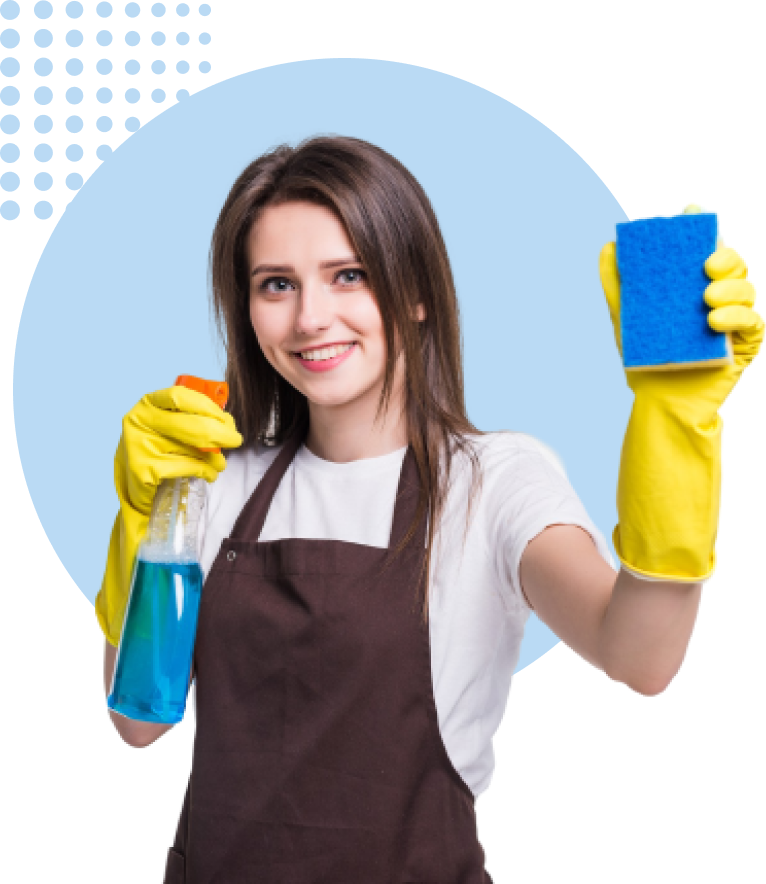
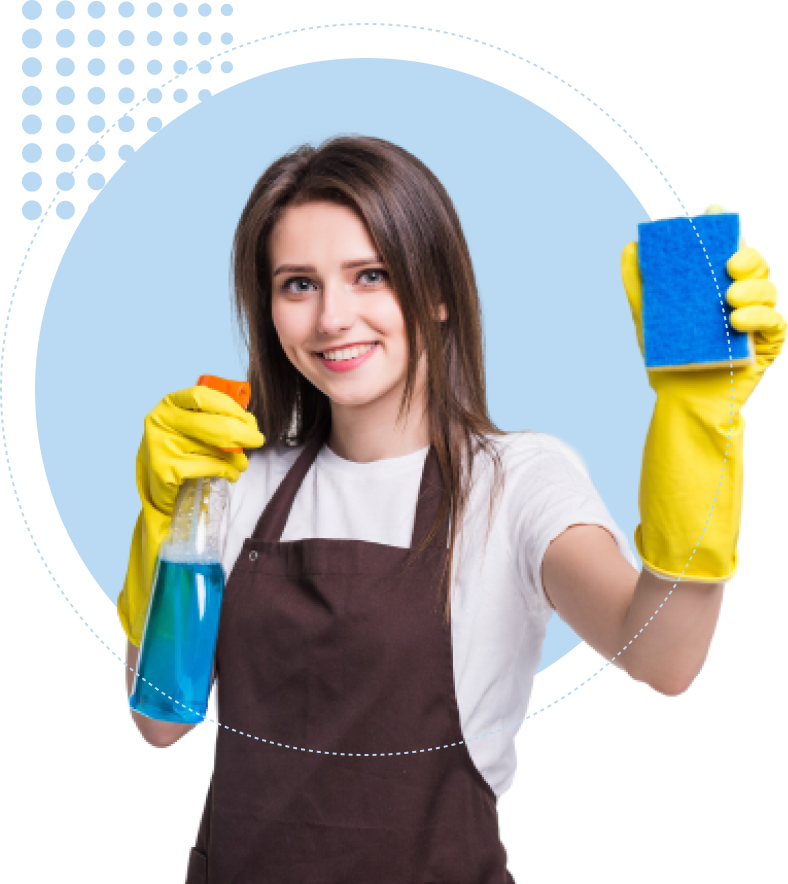
hero section finished

diff --git a/css/main.css b/css/main.css
@@ -109,8 +109,8 @@ ul,ol,li{
 
 /* ***** SITE HEADER START ***** */
 .site-header {
-  padding-top: 26px;
-  padding-bottom: 26px;
+  padding-top: 20px;
+  padding-bottom: 20px;
   background-color: var(--site-header-bg-color);
 }
 
@@ -192,6 +192,162 @@ ul,ol,li{
 
 /* ********** SITE MAIN START *********** */
 /* ****** HERO SECTION START ***** */
+.hero-section {
+  padding-top: 120px;
+  background-color: var(--hero-section-bg-color);
+  background-image: url(../images/hero-section-bg.png);
+  background-repeat: no-repeat;
+  background-size: contain;
+  background-position: calc(50% + 300px) calc(50% + 20px);
+}
+
+.hero-section-title {
+  width: 541px;
+  font-family: 'Outfit';
+  font-style: normal;
+  font-weight: 700;
+  font-size: 55px;
+  line-height: 140%;
+  color: var(--site-main-text-color);
+  margin-top: 0;
+  margin-bottom: 24px;
+}
+.hero-section-subtitle {
+  font-size: 18px;
+  line-height: 172%;
+  color: var(--site-main-text-desc-color);
+  width: 517px;
+  margin-top: 0;
+  margin-bottom: 48px;
+}
+.hero-section-btn {
+  padding: 18px 40px;
+  font-weight: 500;
+  font-size: 18px;
+  line-height: 166%;
+  color: var(--site-btn-text-color);
+  background-color: var(--site-btn-bg-color);
+  border-radius: 4px;
+}
+.hero-section-number-list {
+  display: flex;
+  align-items: center;
+  margin-top: 92px;
+  margin-bottom: 12px;
+}
+.hero-section-number-item {
+  font-family: 'Rubik';
+  font-style: normal;
+  font-weight: 700;
+  font-size: 32px;
+  line-height: 100%;
+  color: var(--site-main-text-color);
+  margin-right: 80px;
+}
+.hero-section-number-item:last-child{
+  margin-left: 15px;
+}
+.hero-section-name-list {
+  display: flex;
+  align-items: center;
+  margin: 0;
+  padding-bottom: 71px;
+}
+.hero-section-name-item {
+  font-family: 'Rubik';
+  font-style: normal;
+  font-weight: 400;
+  font-size: 16px;
+  line-height: 100%;
+  color: #647685;
+  margin-right: 55px;
+}
+.hero-section-bottom{
+  display: flex;
+  flex-direction: column;
+  align-items: flex-start;
+}
+.hero-section-name-item:last-child{
+  margin-right: 0;
+}
+
+.hero-section-right-bottom {
+  position: relative;
+  width: 360px;
+  background-color: var(--site-header-bg-color);
+  padding-top: 36px;
+  padding-right: 67px;
+  padding-left: 67px;
+  padding-bottom: 76px;
+  border-radius: 28px 28px 0px 0px;
+  margin-left: auto;
+}
+
+.hero-section-right-bottom::before{
+  position: absolute;
+  content: "";
+  display: block;
+  width: 100px;
+  height: 100px;
+  background-size: 45px;
+  background-image: url(../images/users.svg);
+  background-color: #FCDC00;
+  background-repeat: no-repeat;
+  background-position: center center;
+  border-radius: 50%;
+  /* padding: 33px 27px; */
+  top: -50px;
+  right: 300px;
+}
+.our-crertve-team-title {
+  font-weight: 700;
+  font-size: 23px;
+  line-height: 100%;
+  color: #222326;
+  margin-top: 0;
+  margin-bottom: 70px;
+}
+.hero-section-right-bottom-box {
+  position: relative;
+  display: flex;
+  align-items: center;
+}
+.team-box1 {
+  position: absolute;
+  width: 79px;
+  height: 79px;
+  /* padding: 5px; */
+  background-color: #48B774;
+  border-radius: 50%;
+}
+.team-box2 {
+  position: absolute;
+  width: 79px;
+  height: 79px;
+  padding: 5px;
+  background-color: #FF8345;
+  border-radius: 50%;
+  left: 60px;
+}
+.team-box3 {
+  position: absolute;
+  width: 79px;
+  height: 79px;
+  padding: 10px;
+  background-color: #FFCA45;
+  border-radius: 50%;
+  left: 120px;
+}
+
+.our-crertve-team-subtitle{
+  position: absolute;
+  display:block;
+  left: 180px;
+  padding: 30px 30px;
+  background-color: #EDEDED;
+  border-radius: 50%;
+  z-index: 99;
+}
 
 /* ****** HERO SECTION END ***** */
 /* ********** SITE MAIN END *********** */

diff --git a/index.html b/index.html
@@ -57,7 +57,42 @@
     <!-- HERO SECTION START -->
     <section class="hero-section">
       <div class="container">
-        
+        <div class="hero-section-wrapper">
+          <h1 class="hero-section-title">
+            Cleaning Service
+            From World Class
+            Agency.</h1>
+            <p class="hero-section-subtitle">
+              Our services go beyond the basic services and provide you with clean your home and enhance your life.
+            </p>
+            <a class="hero-section-btn" href="#">Learn More</a>
+            <div class="hero-section-bottom">
+            <ul class="hero-section-number-list">
+              <li class="hero-section-number-item">345</li>
+              <li class="hero-section-number-item">1450+</li>
+              <li class="hero-section-number-item">100+</li>
+              <li class="hero-section-number-item">40+</li>
+            </ul>
+            <ul class="hero-section-name-list">
+              <li class="hero-section-name-item">Project Done</li>
+              <li class="hero-section-name-item">Satisfied Clients</li>
+              <li class="hero-section-name-item">Awards Winner</li>
+              <li class="hero-section-name-item">Team Members</li>
+            </ul>
+          </div>
+          <div class="hero-section-right-bottom">
+            <h3 class="our-crertve-team-title">Our Creative Team</h3>
+            <div class="hero-section-right-bottom-box">
+            <p class="our-crertve-team-subtitle">3+</p>
+            <img class="team-box1" src="./images/team1.png" 
+            alt="team1" width="77" height="74">
+            <img class="team-box2" src="./images/team2.png" 
+            alt="team1" width="54" height="74">
+            <img class="team-box3" src="./images/team3.png" 
+            alt="team1" width="65" height="85">
+          </div>
+        </div>
+        </div>
       </div>
     </section>
     <!-- HERO SECTION END -->
